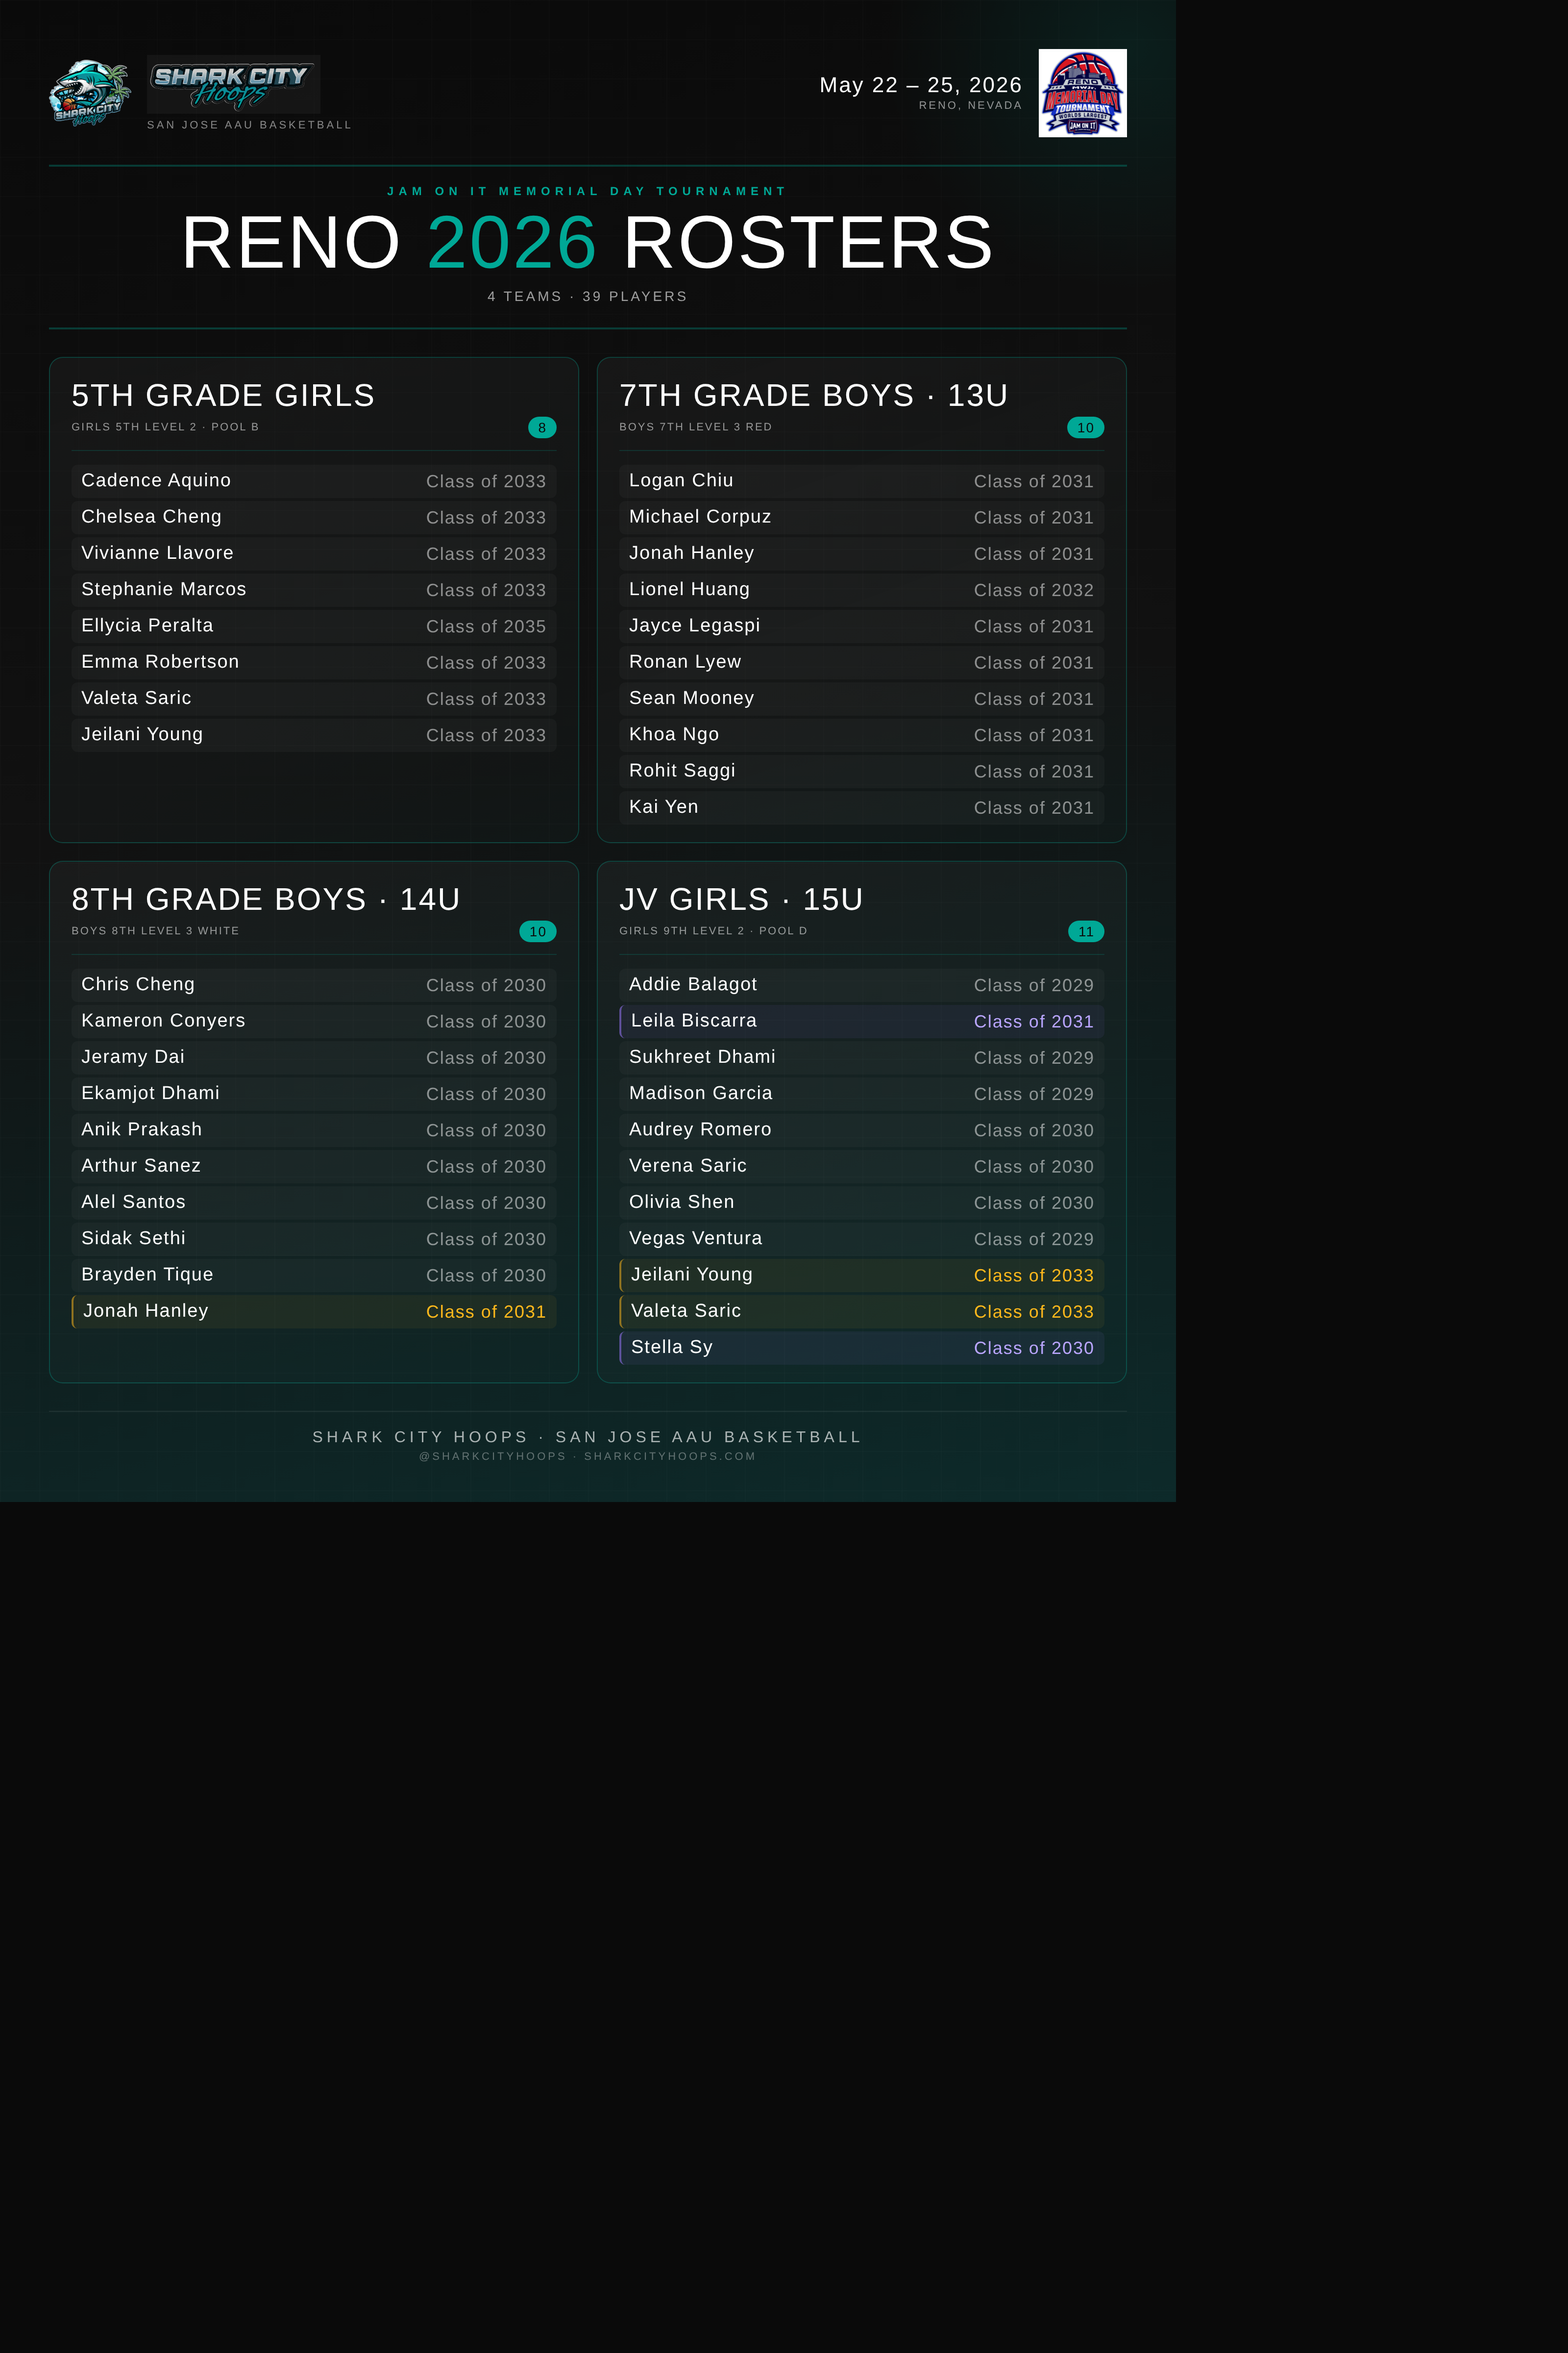
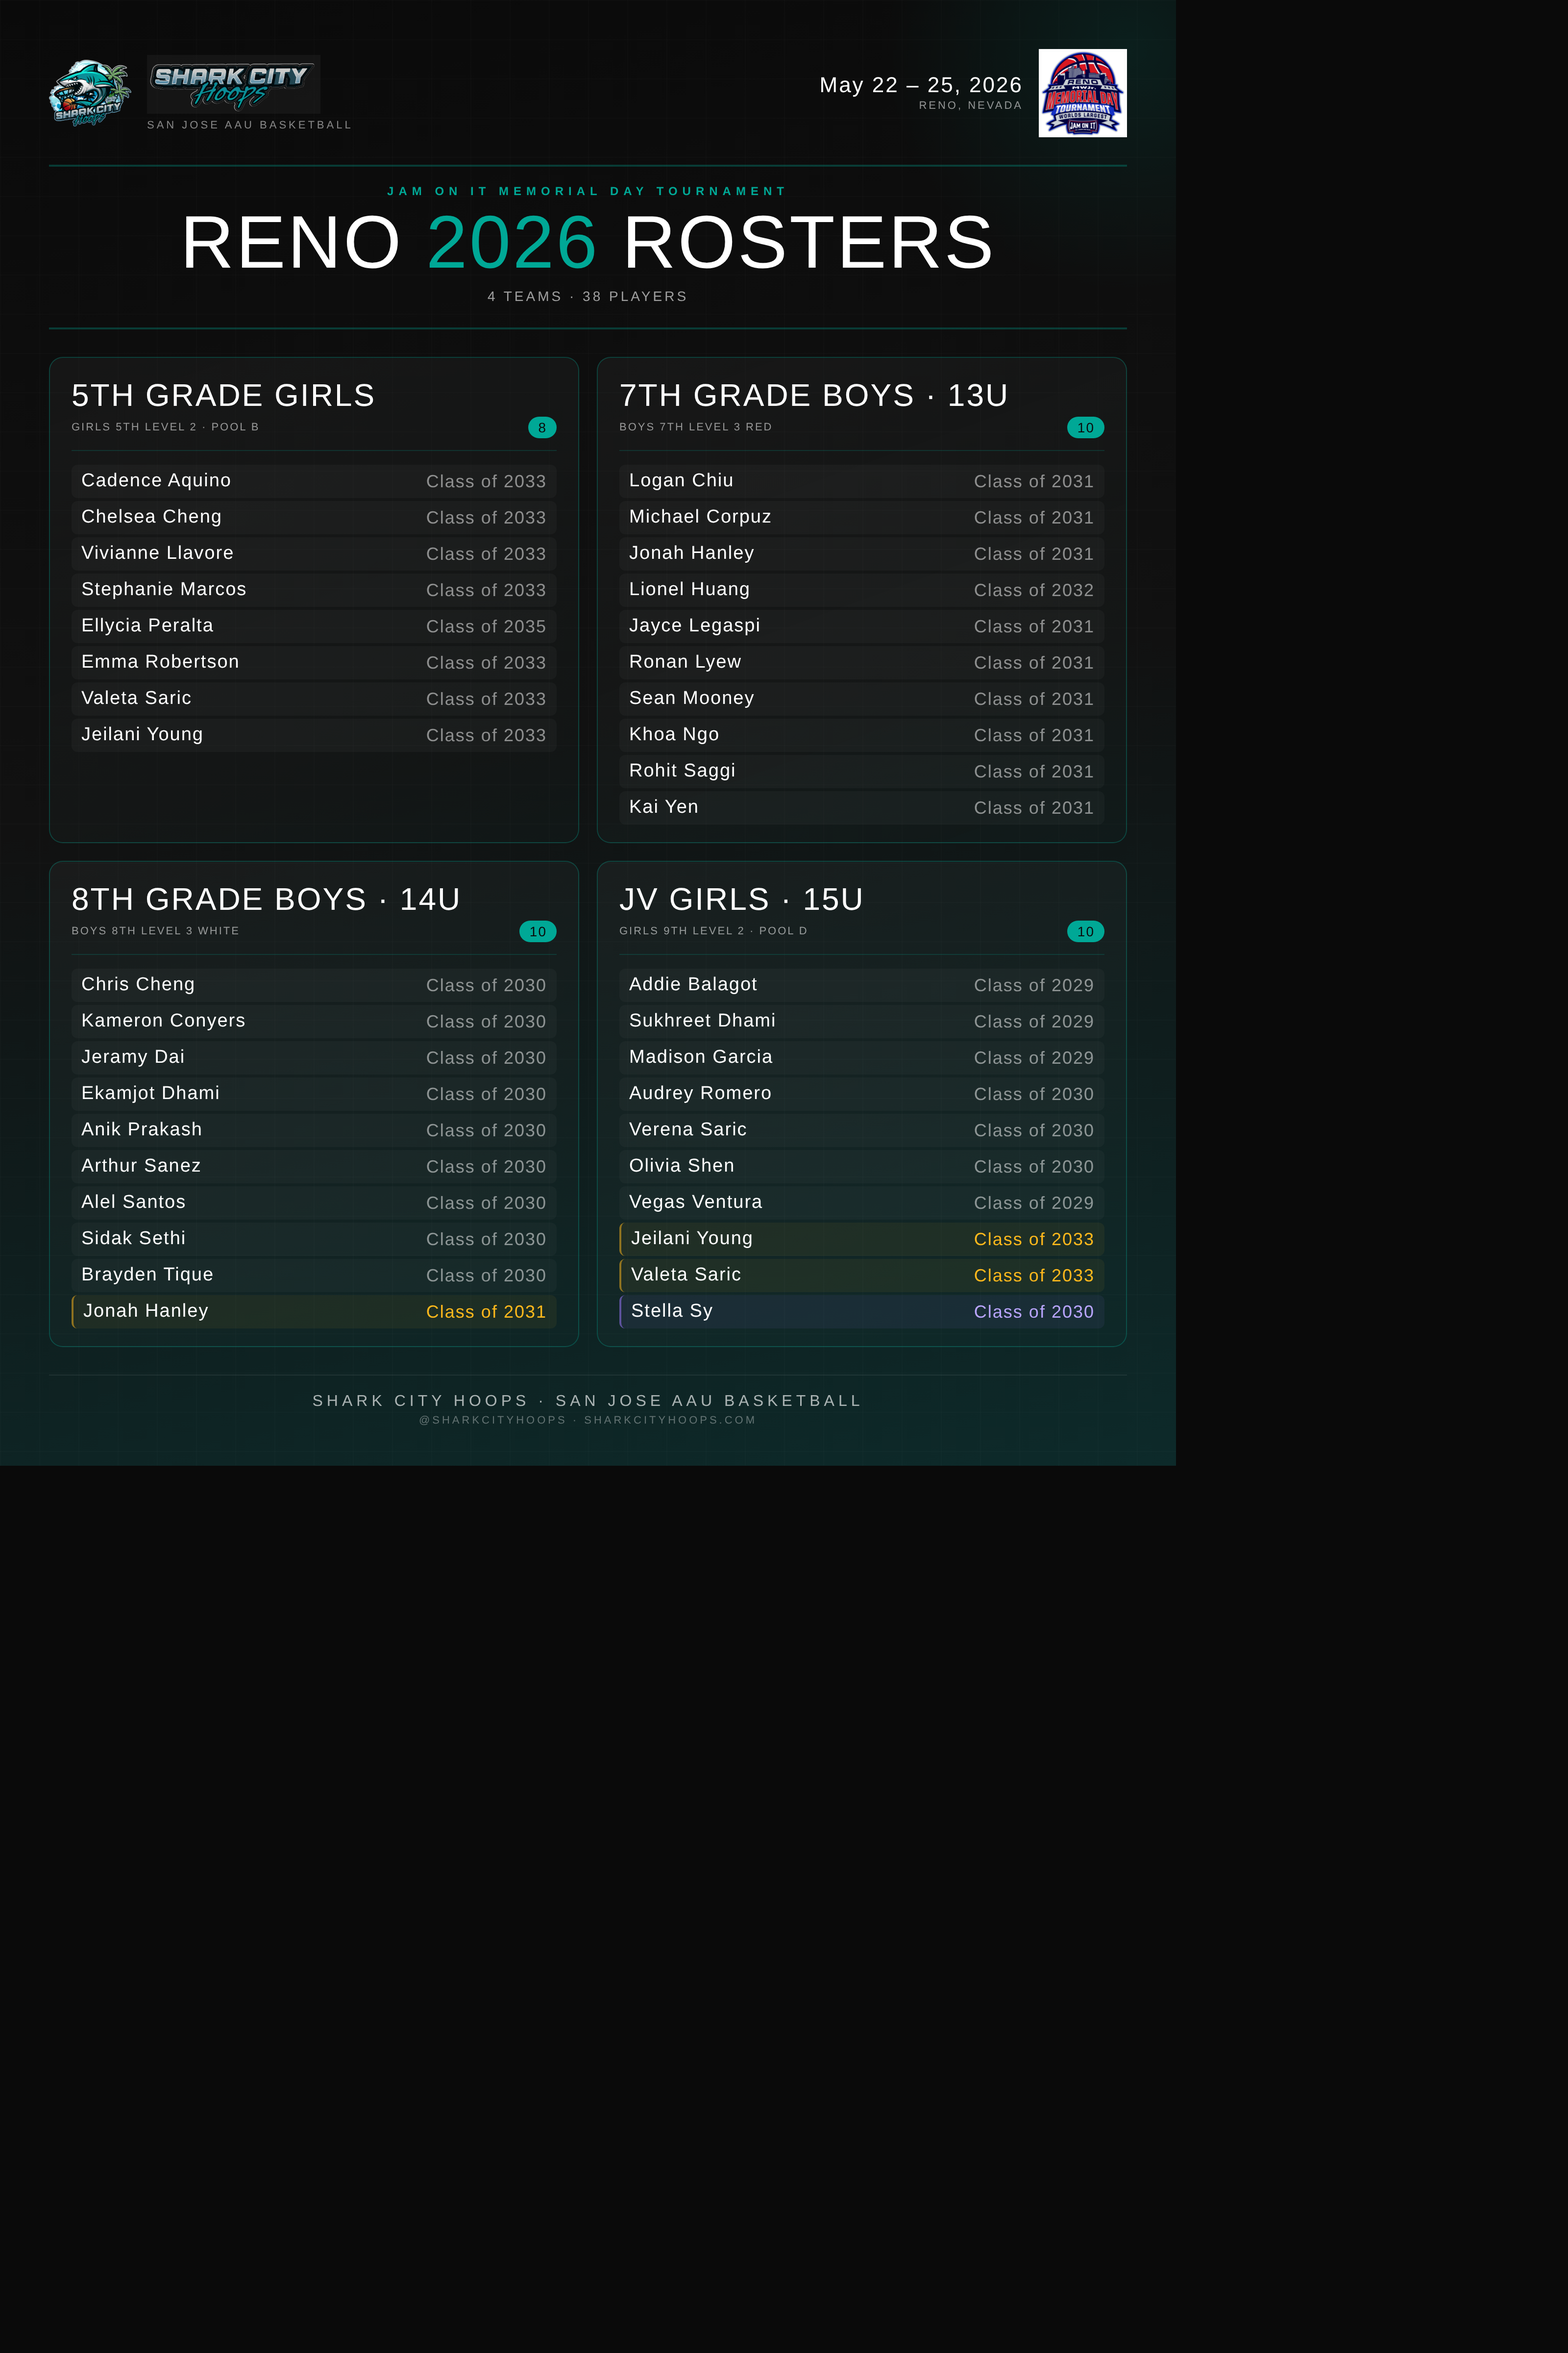
Remove Leila Biscarra from JV Girls roster (39 → 38 players)

Changed region(s): [[0.0, 0.5938, 0.75, 0.6562], [0.4062, 0.4375, 0.5, 0.5625]]

diff --git a/index.html b/index.html
@@ -142,7 +142,7 @@
 
   <div class="roster-section">
     <h2 class="section-title">Full Roster</h2>
-    <p class="roster-blurb">All 39 players across the 4 teams &mdash; class year and team breakdown. <a href="SCH_Reno_2026_Rosters.png" target="_blank">Open full size &rarr;</a></p>
+    <p class="roster-blurb">All 38 players across the 4 teams &mdash; class year and team breakdown. <a href="SCH_Reno_2026_Rosters.png" target="_blank">Open full size &rarr;</a></p>
     <a href="SCH_Reno_2026_Rosters.png" target="_blank"><img src="SCH_Reno_2026_Rosters.png" alt="SCH Reno 2026 Rosters" class="roster-image"></a>
   </div>
 
